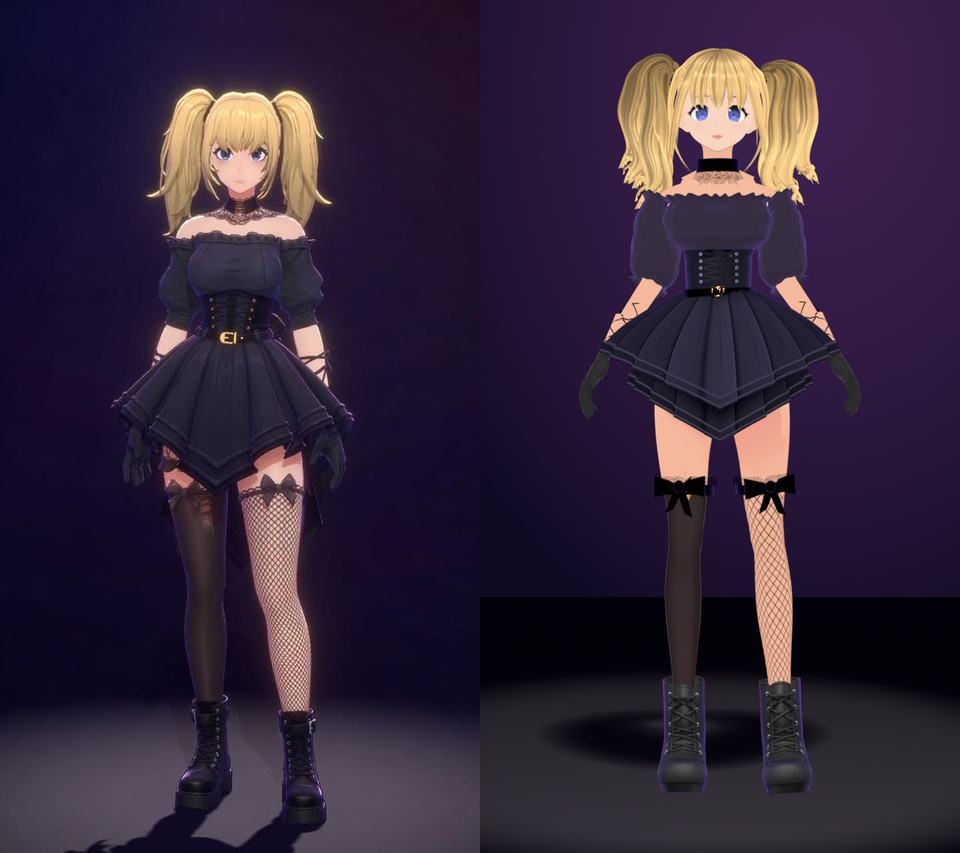
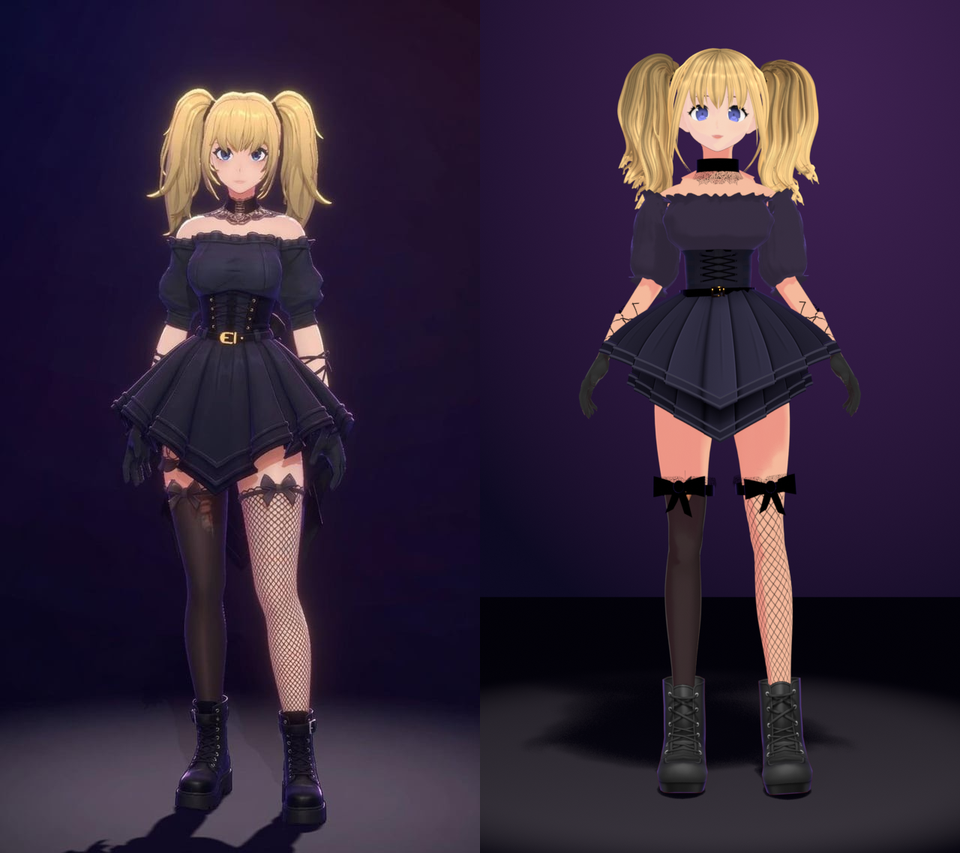
Goth agent: shadows across the figure
Two reasons nothing on the figure showed shade, both in how the VRM
add-on's MToon works:

- it counts any surface that a light reaches past ~1 W/m2 as fully lit
  (the shader multiplies the diffuse irradiance up and thresholds it), and
  the stage had five lights of hundreds of watts from all sides. The stage
  now lights the figure with one key sun of about that strength from the
  front right and above (STAGE_KEY), and light-links its spot, fill and
  rims to the floor and haze only, which keeps the floor's pool of light.
- MToon surfaces are transparent to shadow rays (an "is camera ray"
  switch), so nothing cast a shadow. Body, face, hair, blouse and sleeves
  now get the skirt's treatment: an invisible inset copy visible to shadow
  rays only. The chin shades the neck down to the choker as in the
  reference, the lace and choker shade the chest, the skirt the thighs,
  and the figure casts a shadow on the floor.

The cloth's violet MToon rim is kept to a thin edge; broad, it hazed the
round sleeves and blouse over.

Claude-Session: https://claude.ai/code/session_011M9r3rTGgXhm4baeKDbpr3

diff --git a/build/tools/blender-agent-refine.py b/build/tools/blender-agent-refine.py
@@ -721,11 +721,17 @@ sob = bpy.data.objects.new('Skirt', sme); coll.objects.link(sob); sme.materials.
 sob.parent = arm; sob.modifiers.new('Armature', 'ARMATURE').object = arm
 # MToon surfaces are transparent to shadow rays (so they never self-shadow), which also means the skirt threw no
 # shadow on the thighs or on its own lower tier. An invisible copy a few mm inside it casts one.
-cst = sob.copy(); cst.name = 'Skirt shadow caster'; coll.objects.link(cst); CASTER = pmat('Shadow caster', (0, 0, 0))
-for sl_ in cst.material_slots: sl_.link = 'OBJECT'; sl_.material = CASTER
-dm_ = cst.modifiers.new('Inset', 'DISPLACE'); dm_.strength = -0.004; dm_.mid_level = 0.0
-for at_ in ('visible_camera', 'visible_diffuse', 'visible_glossy', 'visible_transmission', 'visible_volume_scatter'): setattr(cst, at_, False)
-cst.visible_shadow = True
+CASTER = pmat('Shadow caster', (0, 0, 0))
+def shadow_caster(ob, inset=0.004):
+    """An invisible copy of ob that only casts shadows, a little inside it (so it never shadows its own surface)."""
+    c_ = ob.copy(); c_.name = ob.name + ' shadow caster'; coll.objects.link(c_)
+    for sl_ in c_.material_slots: sl_.link = 'OBJECT'; sl_.material = CASTER
+    for md_ in list(c_.modifiers):
+        if md_.type == 'NODES': c_.modifiers.remove(md_)                      # no outline shells on a caster
+    dm_ = c_.modifiers.new('Inset', 'DISPLACE'); dm_.strength = -inset; dm_.mid_level = 0.0
+    for at_ in ('visible_camera', 'visible_diffuse', 'visible_glossy', 'visible_transmission', 'visible_volume_scatter'): setattr(c_, at_, False)
+    c_.visible_shadow = True; return c_
+shadow_caster(sob)
 print('SKIRT rebuilt: %d panels; lower tier %.3f long at the sides / %.3f at the points, upper out to %.3f / %.3f; %d verts'
       % (a.pleats, a.skirt_side, a.skirt_front, a.skirt_radius, a.skirt_radius_front, len(sme.vertices)))
 # plain fabric: a flattened copy of the skirt texture (drops the buttons and panel seams)
@@ -1259,11 +1265,16 @@ def rim(keys, rgb, power, lift, mul):
 if a.rim:
     print('RIM', rim(('Hair_00_HAIR',), (255, 196, 96), 4.5, 0.0, a.rim * 0.7),
           # no skin rim: VRoid paints the gloves into the skin texture and a rim turns them brown
-          rim(('Tops_01_CLOTH', 'Bodice', 'Skirt trim', 'Shoes_01_CLOTH'), (150, 110, 255), 4.0, 0.0, a.rim * 0.5),
+          rim(('Tops_01_CLOTH', 'Bodice', 'Skirt trim', 'Shoes_01_CLOTH'), (150, 110, 255), 8.0, 0.0, a.rim * 0.5),   # a thin edge: broad, it
+                                                                                                                  # hazed the round sleeves over
           # the skirt flares out sideways, so a broad rim lit its whole sides; the reference's sides fall into shade
           rim((' panels', ' band', 'Skirt trim'), (150, 110, 255), 9.0, 0.0, a.rim * 0.35))
 # no outline shell on the body skin: VRoid removed the skin under the old collar and sleeves, and the
 # inverted-hull outline shows through those gaps as dark red. The reference has no skin contour lines anyway.
 for md in list(body.modifiers):
     if md.type == 'NODES' and 'Body_00_SKIN' in md.name: print('OUTLINE removed', md.name); body.modifiers.remove(md)
+# the rest of the figure casts shadows the same way: chin on the neck, hair on the face, sleeves on the arms
+for n_, ins_ in (('Body', 0.003), ('Face', 0.002), ('Hair', 0.002), ('Blouse', 0.003), ('Sleeve L', 0.003), ('Sleeve R', 0.003)):
+    if n_ in bpy.data.objects: shadow_caster(bpy.data.objects[n_], ins_)
+print('SHADOW CASTERS', sorted(o.name for o in bpy.data.objects if o.name.endswith('shadow caster')))
 bpy.ops.wm.save_as_mainfile(filepath=a.out); print('SAVED', a.out)

diff --git a/build/tools/blender-agent-stage.py b/build/tools/blender-agent-stage.py
@@ -4,6 +4,7 @@ floor, violet and pink rims, warm hair glow, neutral face (see design/blender/ag
 
   blender -b --python build/tools/blender-agent-stage.py -- IN.blend OUT.png [VIEW_TRANSFORM] [FRAME]
   STAGE_POSE=saved keeps the scene's own pose (default: a relaxed stance like the reference)
+  STAGE_KEY=1.0 strength of the key sun that lights the figure (MToon's lit/shade threshold sits near 1 W/m2)
 
 Works on any agent.blend from blender-agent-avatar.py or blender-agent-refine.py; hides their bust-shot
 backdrop, halo and lights and never saves the file.
@@ -83,6 +84,20 @@ cr = n.new('ShaderNodeValToRGB'); cr.color_ramp.elements[0].color = (0.004, 0.00
 em = n.new('ShaderNodeEmission'); em.inputs['Strength'].default_value = 1.0; o_ = n.new('ShaderNodeOutputMaterial')
 l.new(tc.outputs['Object'], mp.inputs['Vector']); l.new(mp.outputs['Vector'], gr.inputs['Vector']); l.new(gr.outputs['Fac'], cr.inputs['Fac'])
 l.new(cr.outputs['Color'], em.inputs['Color']); l.new(em.outputs['Emission'], o_.inputs['Surface']); hz.data.materials.append(hm)
+# The VRM add-on's MToon counts any surface a light reaches past ~1 W/m2 as fully lit, so the stage lights
+# (hundreds of watts, from all sides) left no shade anywhere. The figure is lit by one key sun of about that
+# strength, from the front right and above as in the reference; the stage lights light the set only.
+KEY = float(os.environ.get('STAGE_KEY', 1.0))
+stage_set = bpy.data.collections.new('Stage set'); figure = bpy.data.collections.new('Figure')
+sc.collection.children.link(stage_set); sc.collection.children.link(figure)
+stage_set.objects.link(fl); stage_set.objects.link(hz)
+for o in bpy.data.objects:
+    if o.type in ('MESH', 'CURVE') and o not in (fl, hz) and not o.hide_render: figure.objects.link(o)
+for o in bpy.data.objects:
+    if o.type == 'LIGHT' and not o.hide_render: o.light_linking.receiver_collection = stage_set
+kd = bpy.data.lights.new('Key sun', 'SUN'); kd.energy = KEY; kd.angle = math.radians(4); kd.color = (1.0, 0.95, 0.9)
+ko = bpy.data.objects.new('Key sun', kd); sc.collection.objects.link(ko); ko.light_linking.receiver_collection = figure
+ko.rotation_euler = (-Vector((0.45, -1.0, 1.5))).to_track_quat('-Z', 'Y').to_euler()
 cam = bpy.data.cameras.new('Ref cam'); cam.lens = 75; co = bpy.data.objects.new('Ref cam', cam); sc.collection.objects.link(co)
 co.location = (0, -4.1, 1.05); co.rotation_euler = (Vector((0, 0, 0.84)) - co.location).to_track_quat('-Z', 'Y').to_euler()
 sc.camera = co; sc.render.resolution_x = 640; sc.render.resolution_y = 1137

diff --git a/design/blender/agent/README.md b/design/blender/agent/README.md
@@ -199,9 +199,17 @@ reference picture:
 - **Shading**: cloth cel shading is softened (VRoid ships it nearly hard)
   so pleats and gathers read, and the hair gets a warm ochre shade. The
   MToon rim light, which the VRM carries, is set warm gold on the hair and
-  violet on the cloth for the reference's backlit glow. Skin is warmed in
-  its texture, light texels only: VRoid paints the gloves dark grey into
-  the same texture, and a warm tint or a skin rim turns them brown.
+  violet on the cloth for the reference's backlit glow, kept to a thin edge
+  (broad, it hazed the round sleeves and lit the skirt's sides). Skin is
+  warmed in its texture, light texels only: VRoid paints the gloves dark
+  grey into the same texture, and a warm tint or a skin rim turns them
+  brown.
+- **Shadows**: MToon surfaces are transparent to shadow rays (the add-on
+  switches on "is camera ray"), so nothing on the figure cast a shadow.
+  Invisible copies of the body, face, hair, blouse, sleeves and skirt, a
+  few mm inside the originals and visible to shadow rays only, cast them
+  now: the chin on the neck, the lace and choker on the chest, the skirt
+  on the thighs, the figure on the floor.
 - **Hair texture**: VRoid's hair texture is a flat gradient, so it is
   repainted at twice the resolution with strand detail. The texture runs
   along each strand (root at the top of the image) and repeats across it,
@@ -258,7 +266,11 @@ the reference uses: dark indigo stage, overhead spot, violet and pink rims,
 neutral face, and a relaxed stance (upper arms hanging close to the body,
 forearms angled out past the flared skirt, soft elbows and relaxed, curled fingers, one knee eased forward, a
 slight turn through the hips and head). The pose is applied to the render only; `STAGE_POSE=saved`
-keeps the scene's own pose. Its bone helper rotates about world axes
+keeps the scene's own pose. The add-on's MToon counts any surface that a light reaches past about
+1 W/m2 as fully lit, so the stage's lights (hundreds of watts, from all
+sides) left no shade anywhere: the figure is lit by one key sun of about
+that strength from the front right and above (`STAGE_KEY`, default 1.0),
+and the stage lights are light-linked to the floor and haze only. Its bone helper rotates about world axes
 through each bone's head, parents first: a child bone's local rotation
 is in its already-rotated parent's frame, so a "bend the elbow" about the
 rest X axis became a twist along the forearm.
